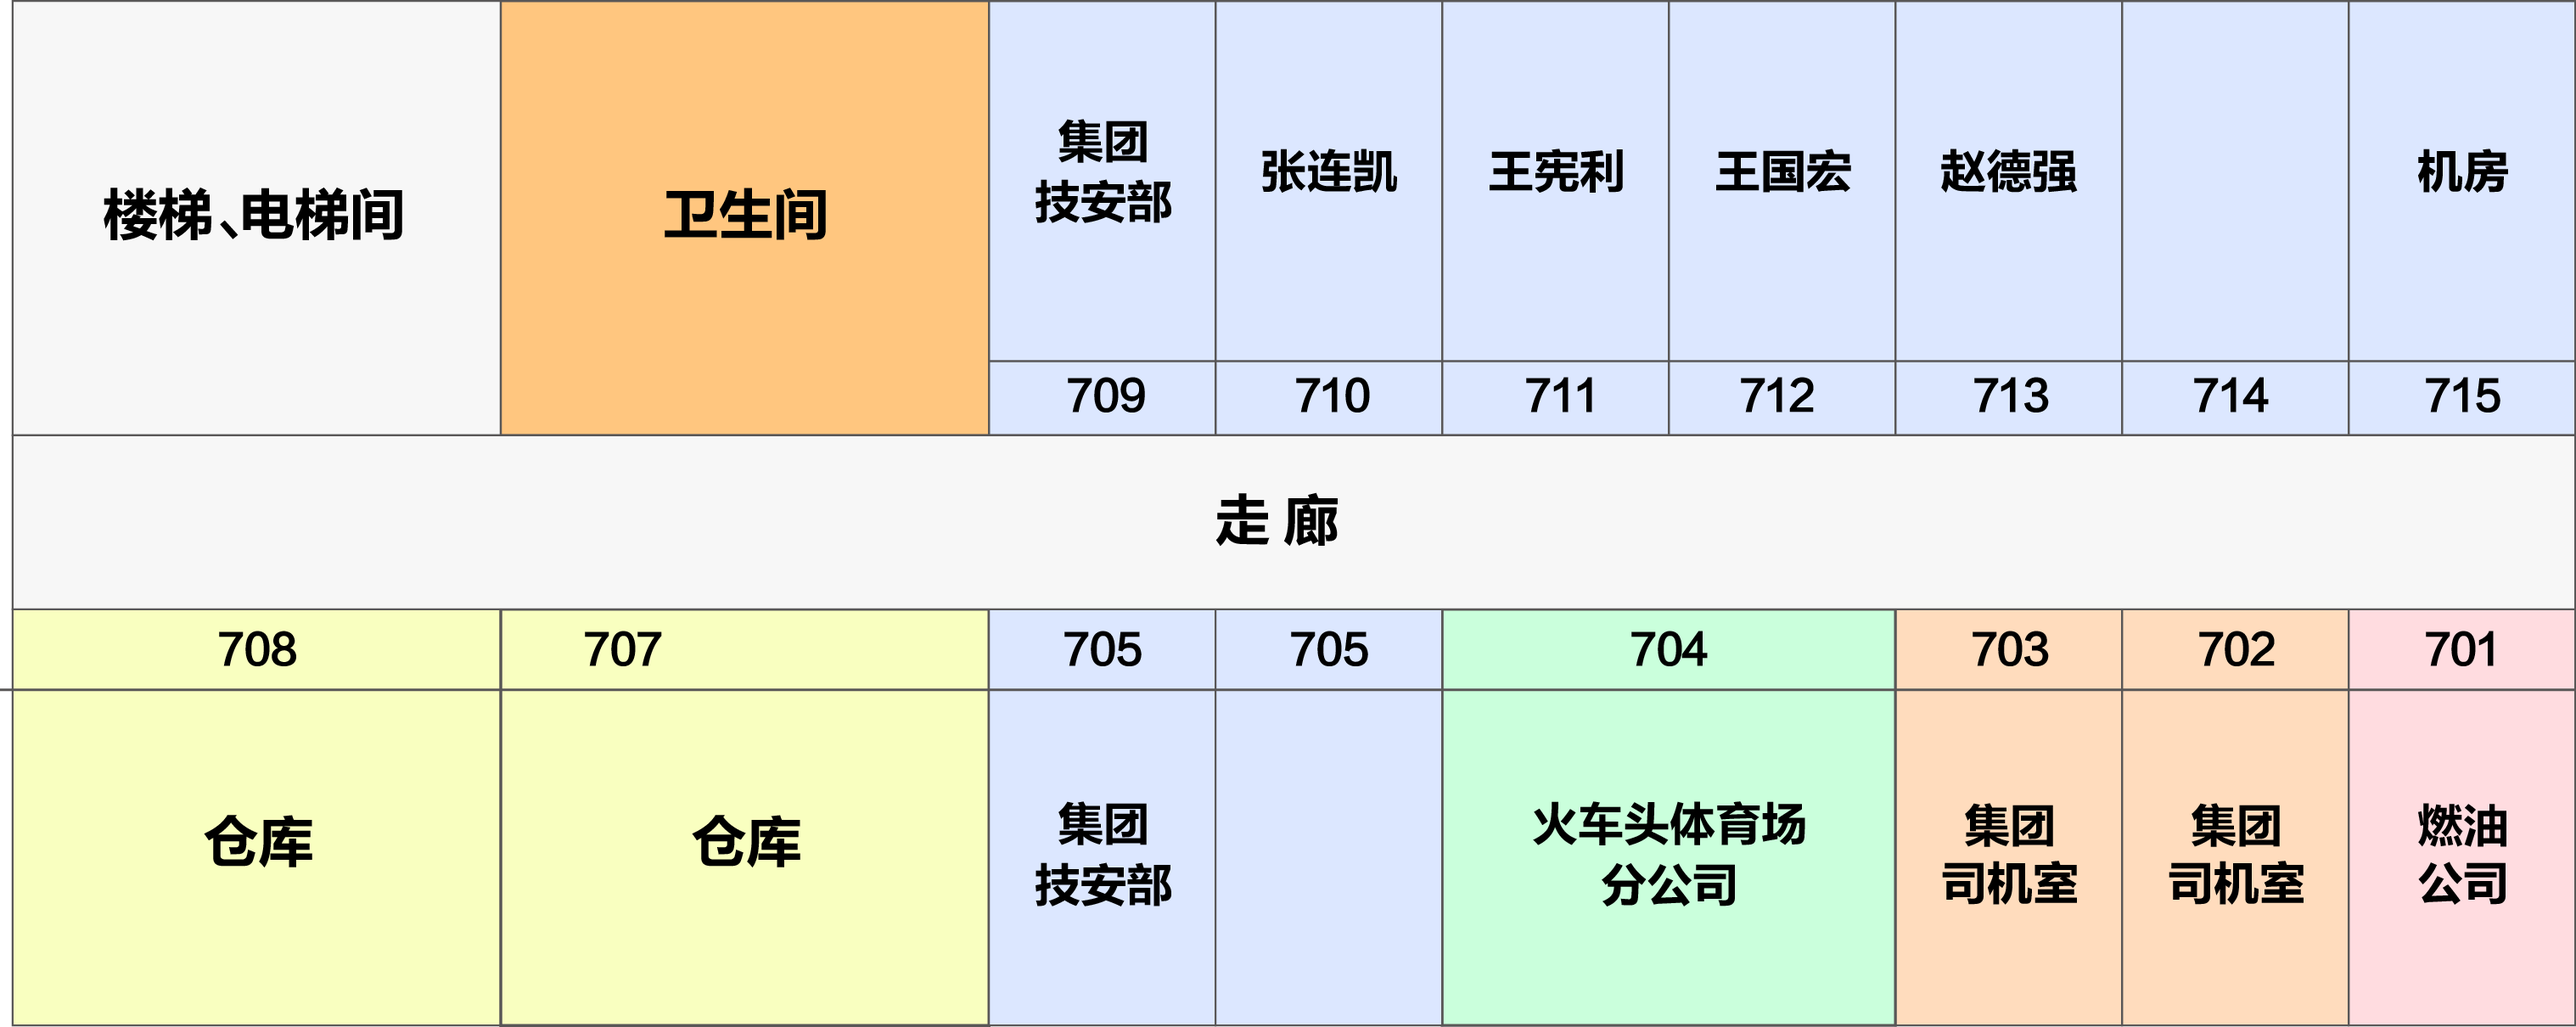
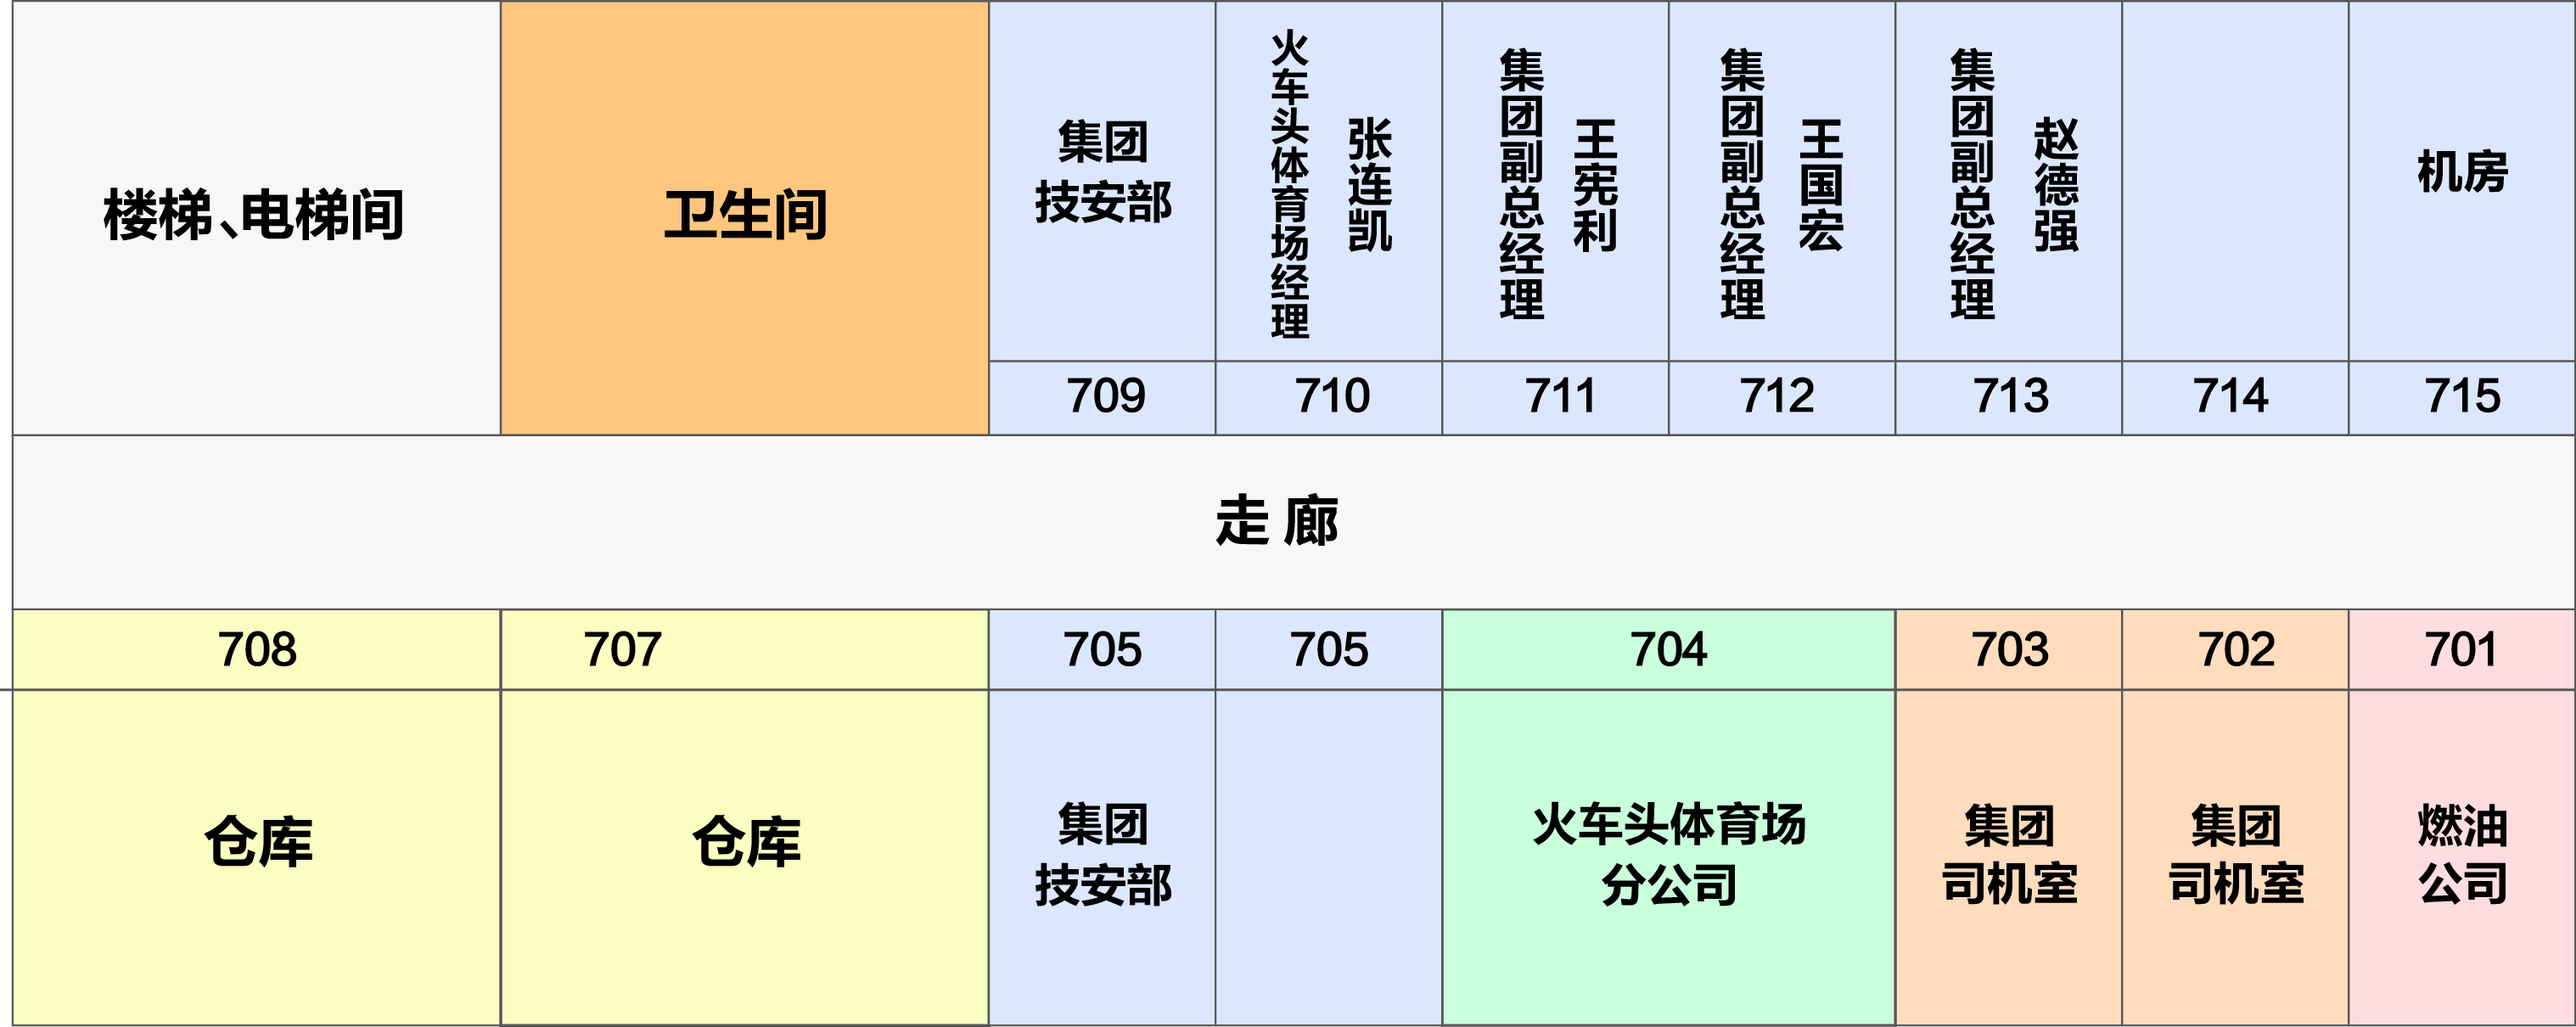
更新楼层图片

Changed region(s): [[0.4646, 0.0306, 0.8053, 0.3364]]

diff --git a/scripts/app.js b/scripts/app.js
@@ -1,7 +1,20 @@
-//展览室配置
-TieYueShow = {'indexFileName':'index.html'};
+//展览室配置, indexFileName 判断是否为首页，决定是否返回首页
+TieYueShow = {'indexFileName':'index.html', 'hasHomeTimer': '0'};
 //导视系统配置
-//TieYueShow = {'indexFileName':'index+guide.html', 'hasHomeTimer': '1'};
+//TieYueShow = {'indexFileName':'index.html', 'hasHomeTimer': '1'};
+
+//'铁越速度##videos/fengcai/sample.jpg##videos/fengcai/sample.webm',
+TieYueShow.videos = [
+    '感动铁越##videos/fengcai/感动铁越.jpg##videos/fengcai/01感动铁越.webm',
+    '铁越速度##videos/fengcai/铁越速度.jpg##videos/fengcai/02铁越速度.webm',
+    '拓荒者的足迹##videos/fengcai/拓荒者的足迹.jpg##videos/fengcai/03拓荒者的足迹.webm',
+    '2017年三八才艺##videos/fengcai/2017年三八才艺.jpg##videos/fengcai/sample.webm',
+    '2016年三八才艺##videos/fengcai/2016年三八才艺.jpg##videos/fengcai/052016年三八才艺展示.webm',
+    '2015年三八才艺##videos/fengcai/2015年三八才艺.jpg##videos/fengcai/062015年三八才艺展示.webm',
+    '两学一做-白总##videos/fengcai/两学一做-白总.jpg##videos/fengcai/07两学一做-白总.webm',
+    '于志斌讲课##videos/fengcai/于志斌讲课.jpg##videos/fengcai/08于志斌讲课.webm',
+    '王建臣讲课##videos/fengcai/王建臣讲课.jpg##videos/fengcai/09王建臣讲课.webm',
+  ];
 
 $.extend({
   getUrlVars: function(){
@@ -51,6 +64,10 @@ $(window).load(function(){
                $('body').css('overflow','auto');
                $(this).hide();
     });
+    //禁止鼠标右键
+     document.oncontextmenu = function(e){
+       e.preventDefault();
+     }
 });
 
 $(document).ready(function(){
@@ -194,33 +211,26 @@ $(document).ready(function(){
   //如果是铁越风采页面
   if($('.culture5').is('*'))
   {
-    //'铁越速度##videos/fengcai/sample.jpg##videos/fengcai/sample.webm',
-	  var lines = [
-        '感动铁越##videos/fengcai/感动铁越.jpg##videos/fengcai/01感动铁越.webm',
-        '铁越速度##videos/fengcai/铁越速度.jpg##videos/fengcai/02铁越速度.webm',
-        '拓荒者的足迹##videos/fengcai/拓荒者的足迹.jpg##videos/fengcai/03拓荒者的足迹.webm',
-        '2017年三八才艺##videos/fengcai/2017年三八才艺.jpg##videos/fengcai/sample.webm',
-        '2016年三八才艺##videos/fengcai/2016年三八才艺.jpg##videos/fengcai/052016年三八才艺展示.webm',
-        '2015年三八才艺##videos/fengcai/2015年三八才艺.jpg##videos/fengcai/062015年三八才艺展示.webm',
-        '两学一做-白总##videos/fengcai/两学一做-白总.jpg##videos/fengcai/07两学一做-白总.webm',
-        '于志斌讲课##videos/fengcai/于志斌讲课.jpg##videos/fengcai/08于志斌讲课.webm',
-        '王建臣讲课##videos/fengcai/王建臣讲课.jpg##videos/fengcai/09王建臣讲课.webm',
-      ];
-	  //如果C#对象存在
-	  if (typeof(c_video_manager_async) != "undefined") {
-      $('#preloader').show();
-  		c_video_manager_async.videoFiles().then(function(res){
-  			init_video_list( lines);
-        bind_play_event();
-        $('#preloader').hide();
-  		})
-	  }else{
-      //测试使用
-      init_video_list( lines);
-      bind_play_event();
-    }
 
+	  //如果C#对象存在
+	  //if (typeof(c_video_manager_async) != "undefined") {
+    //  $('#preloader').show();
+  	//	c_video_manager_async.videoFiles().then(function(res){
+  	//		init_video_list( lines);
+    //    bind_play_event();
+    //    $('#preloader').hide();
+  	//	})
+	  //}else{
+      //测试使用
+      init_video_list( TieYueShow.videos);
+      bind_play_event();
+    //}
   }
+
+  // 如果是展览系统，点击退出按钮，直接退出
+  $('#exit_btn').on('click', function (e) {
+    c_bound.onTrigger( 'exit','' );
+  })
 
   // 如果是楼层导视系统，定时15分钟，返回主页
   if( TieYueShow.hasHomeTimer == '1' )
